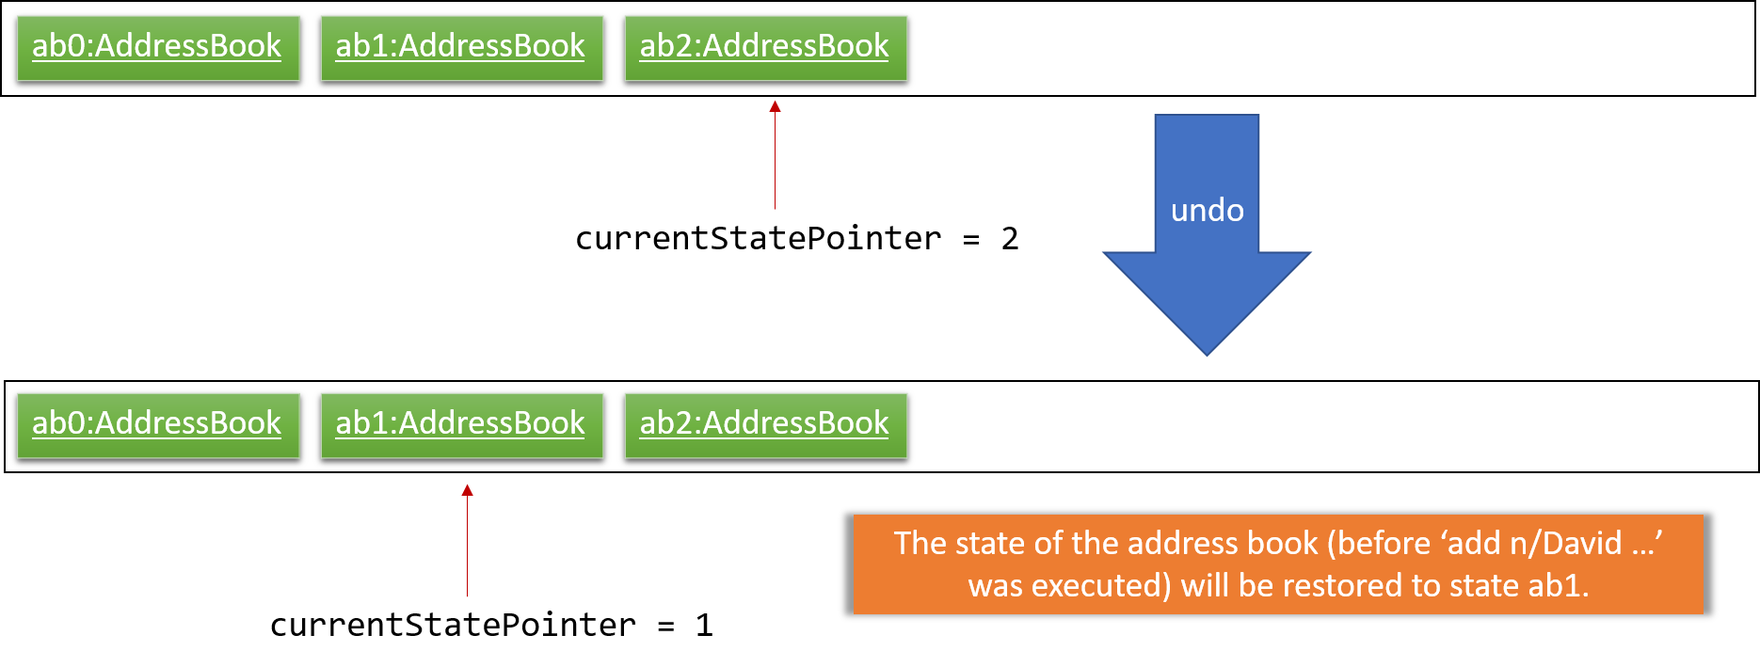
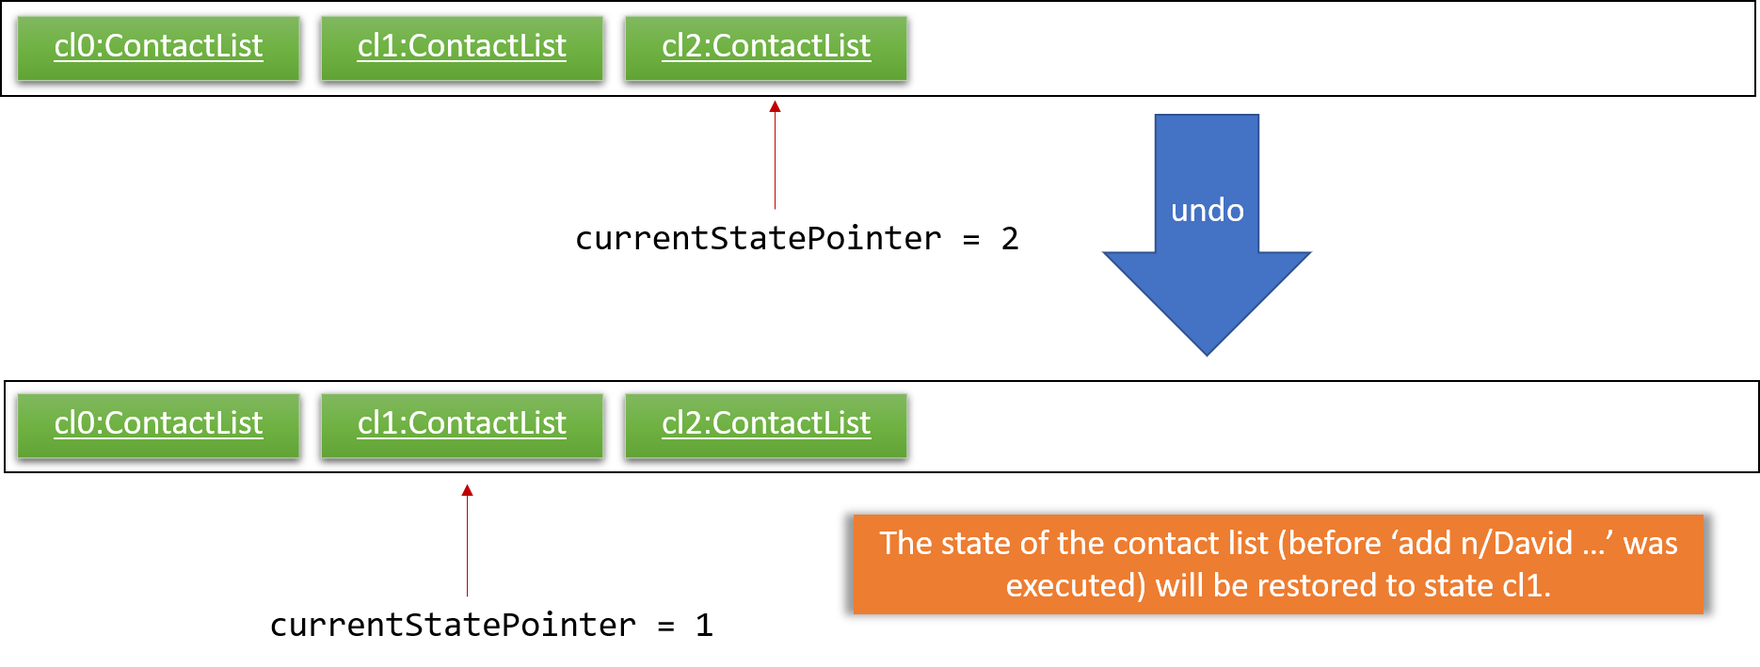
Rebuild pages at 3e79c8a3cec705b531b3e99bef4f56458a73218d

diff --git a/team/johndoe.html b/team/johndoe.html
@@ -241,31 +241,31 @@ The <code>redo</code> command fails as there are no <code>undo</code> commands e
 <div class="sect3">
 <h4 id="current-implementation"><a class="link" href="#current-implementation">Current Implementation</a></h4>
 <div class="paragraph">
-<p>The undo/redo mechanism is facilitated by <code>VersionedAddressBook</code>.
-It extends <code>AddressBook</code> with an undo/redo history, stored internally as an <code>addressBookStateList</code> and <code>currentStatePointer</code>.
+<p>The undo/redo mechanism is facilitated by <code>VersionedContactList</code>.
+It extends <code>ContactList</code> with an undo/redo history, stored internally as an <code>contactListStateList</code> and <code>currentStatePointer</code>.
 Additionally, it implements the following operations:</p>
 </div>
 <div class="ulist">
 <ul>
 <li>
-<p><code>VersionedAddressBook#commit()</code>&#8201;&#8212;&#8201;Saves the current address book state in its history.</p>
+<p><code>VersionedContactList#commit()</code>&#8201;&#8212;&#8201;Saves the current contact list state in its history.</p>
 </li>
 <li>
-<p><code>VersionedAddressBook#undo()</code>&#8201;&#8212;&#8201;Restores the previous address book state from its history.</p>
+<p><code>VersionedContactList#undo()</code>&#8201;&#8212;&#8201;Restores the previous contact list state from its history.</p>
 </li>
 <li>
-<p><code>VersionedAddressBook#redo()</code>&#8201;&#8212;&#8201;Restores a previously undone address book state from its history.</p>
+<p><code>VersionedContactList#redo()</code>&#8201;&#8212;&#8201;Restores a previously undone contact list state from its history.</p>
 </li>
 </ul>
 </div>
 <div class="paragraph">
-<p>These operations are exposed in the <code>Model</code> interface as <code>Model#commitAddressBook()</code>, <code>Model#undoAddressBook()</code> and <code>Model#redoAddressBook()</code> respectively.</p>
+<p>These operations are exposed in the <code>Model</code> interface as <code>Model#commitContactList()</code>, <code>Model#undoContactList()</code> and <code>Model#redoContactList()</code> respectively.</p>
 </div>
 <div class="paragraph">
 <p>Given below is an example usage scenario and how the undo/redo mechanism behaves at each step.</p>
 </div>
 <div class="paragraph">
-<p>Step 1. The user launches the application for the first time. The <code>VersionedAddressBook</code> will be initialized with the initial address book state, and the <code>currentStatePointer</code> pointing to that single address book state.</p>
+<p>Step 1. The user launches the application for the first time. The <code>VersionedContactList</code> will be initialized with the initial contact list state, and the <code>currentStatePointer</code> pointing to that single contact list state.</p>
 </div>
 <div class="imageblock">
 <div class="content">
@@ -273,7 +273,7 @@ Additionally, it implements the following operations:</p>
 </div>
 </div>
 <div class="paragraph">
-<p>Step 2. The user executes <code>delete 5</code> command to delete the 5th person in the address book. The <code>delete</code> command calls <code>Model#commitAddressBook()</code>, causing the modified state of the address book after the <code>delete 5</code> command executes to be saved in the <code>addressBookStateList</code>, and the <code>currentStatePointer</code> is shifted to the newly inserted address book state.</p>
+<p>Step 2. The user executes <code>delete 5</code> command to delete the 5th person in the contact list. The <code>delete</code> command calls <code>Model#commitContactList()</code>, causing the modified state of the contact list after the <code>delete 5</code> command executes to be saved in the <code>contactListStateList</code>, and the <code>currentStatePointer</code> is shifted to the newly inserted contact list state.</p>
 </div>
 <div class="imageblock">
 <div class="content">
@@ -281,7 +281,7 @@ Additionally, it implements the following operations:</p>
 </div>
 </div>
 <div class="paragraph">
-<p>Step 3. The user executes <code>add n/David &#8230;&#8203;</code> to add a new person. The <code>add</code> command also calls <code>Model#commitAddressBook()</code>, causing another modified address book state to be saved into the <code>addressBookStateList</code>.</p>
+<p>Step 3. The user executes <code>add n/David &#8230;&#8203;</code> to add a new person. The <code>add</code> command also calls <code>Model#commitContactList()</code>, causing another modified contact list state to be saved into the <code>contactListStateList</code>.</p>
 </div>
 <div class="imageblock">
 <div class="content">
@@ -295,13 +295,13 @@ Additionally, it implements the following operations:</p>
 <i class="fa icon-note" title="Note"></i>
 </td>
 <td class="content">
-If a command fails its execution, it will not call <code>Model#commitAddressBook()</code>, so the address book state will not be saved into the <code>addressBookStateList</code>.
+If a command fails its execution, it will not call <code>Model#commitContactList()</code>, so the contact list state will not be saved into the <code>contactListStateList</code>.
 </td>
 </tr>
 </table>
 </div>
 <div class="paragraph">
-<p>Step 4. The user now decides that adding the person was a mistake, and decides to undo that action by executing the <code>undo</code> command. The <code>undo</code> command will call <code>Model#undoAddressBook()</code>, which will shift the <code>currentStatePointer</code> once to the left, pointing it to the previous address book state, and restores the address book to that state.</p>
+<p>Step 4. The user now decides that adding the person was a mistake, and decides to undo that action by executing the <code>undo</code> command. The <code>undo</code> command will call <code>Model#undoContactList()</code>, which will shift the <code>currentStatePointer</code> once to the left, pointing it to the previous contact list state, and restores the contact list to that state.</p>
 </div>
 <div class="imageblock">
 <div class="content">
@@ -315,7 +315,7 @@ If a command fails its execution, it will not call <code>Model#commitAddressBook
 <i class="fa icon-note" title="Note"></i>
 </td>
 <td class="content">
-If the <code>currentStatePointer</code> is at index 0, pointing to the initial address book state, then there are no previous address book states to restore. The <code>undo</code> command uses <code>Model#canUndoAddressBook()</code> to check if this is the case. If so, it will return an error to the user rather than attempting to perform the undo.
+If the <code>currentStatePointer</code> is at index 0, pointing to the initial contact list state, then there are no previous contact list states to restore. The <code>undo</code> command uses <code>Model#canUndoContactList()</code> to check if this is the case. If so, it will return an error to the user rather than attempting to perform the undo.
 </td>
 </tr>
 </table>
@@ -329,7 +329,7 @@ If the <code>currentStatePointer</code> is at index 0, pointing to the initial a
 </div>
 </div>
 <div class="paragraph">
-<p>The <code>redo</code> command does the opposite&#8201;&#8212;&#8201;it calls <code>Model#redoAddressBook()</code>, which shifts the <code>currentStatePointer</code> once to the right, pointing to the previously undone state, and restores the address book to that state.</p>
+<p>The <code>redo</code> command does the opposite&#8201;&#8212;&#8201;it calls <code>Model#redoContactList()</code>, which shifts the <code>currentStatePointer</code> once to the right, pointing to the previously undone state, and restores the contact list to that state.</p>
 </div>
 <div class="admonitionblock note">
 <table>
@@ -338,13 +338,13 @@ If the <code>currentStatePointer</code> is at index 0, pointing to the initial a
 <i class="fa icon-note" title="Note"></i>
 </td>
 <td class="content">
-If the <code>currentStatePointer</code> is at index <code>addressBookStateList.size() - 1</code>, pointing to the latest address book state, then there are no undone address book states to restore. The <code>redo</code> command uses <code>Model#canRedoAddressBook()</code> to check if this is the case. If so, it will return an error to the user rather than attempting to perform the redo.
+If the <code>currentStatePointer</code> is at index <code>contactListStateList.size() - 1</code>, pointing to the latest contact list state, then there are no undone contact list states to restore. The <code>redo</code> command uses <code>Model#canRedoContactList()</code> to check if this is the case. If so, it will return an error to the user rather than attempting to perform the redo.
 </td>
 </tr>
 </table>
 </div>
 <div class="paragraph">
-<p>Step 5. The user then decides to execute the command <code>list</code>. Commands that do not modify the address book, such as <code>list</code>, will usually not call <code>Model#commitAddressBook()</code>, <code>Model#undoAddressBook()</code> or <code>Model#redoAddressBook()</code>. Thus, the <code>addressBookStateList</code> remains unchanged.</p>
+<p>Step 5. The user then decides to execute the command <code>list</code>. Commands that do not modify the contact list, such as <code>list</code>, will usually not call <code>Model#commitContactList()</code>, <code>Model#undoContactList()</code> or <code>Model#redoContactList()</code>. Thus, the <code>contactListStateList</code> remains unchanged.</p>
 </div>
 <div class="imageblock">
 <div class="content">
@@ -352,7 +352,7 @@ If the <code>currentStatePointer</code> is at index <code>addressBookStateList.s
 </div>
 </div>
 <div class="paragraph">
-<p>Step 6. The user executes <code>clear</code>, which calls <code>Model#commitAddressBook()</code>. Since the <code>currentStatePointer</code> is not pointing at the end of the <code>addressBookStateList</code>, all address book states after the <code>currentStatePointer</code> will be purged. We designed it this way because it no longer makes sense to redo the <code>add n/David &#8230;&#8203;</code> command. This is the behavior that most modern desktop applications follow.</p>
+<p>Step 6. The user executes <code>clear</code>, which calls <code>Model#commitContactList()</code>. Since the <code>currentStatePointer</code> is not pointing at the end of the <code>contactListStateList</code>, all contact list states after the <code>currentStatePointer</code> will be purged. We designed it this way because it no longer makes sense to redo the <code>add n/David &#8230;&#8203;</code> command. This is the behavior that most modern desktop applications follow.</p>
 </div>
 <div class="imageblock">
 <div class="content">
@@ -375,7 +375,7 @@ If the <code>currentStatePointer</code> is at index <code>addressBookStateList.s
 <div class="ulist">
 <ul>
 <li>
-<p><strong>Alternative 1 (current choice):</strong> Saves the entire address book.</p>
+<p><strong>Alternative 1 (current choice):</strong> Saves the entire contact list.</p>
 <div class="ulist">
 <ul>
 <li>
@@ -408,14 +408,14 @@ If the <code>currentStatePointer</code> is at index <code>addressBookStateList.s
 <div class="ulist">
 <ul>
 <li>
-<p><strong>Alternative 1 (current choice):</strong> Use a list to store the history of address book states.</p>
+<p><strong>Alternative 1 (current choice):</strong> Use a list to store the history of contact list states.</p>
 <div class="ulist">
 <ul>
 <li>
 <p>Pros: Easy for new Computer Science student undergraduates to understand, who are likely to be the new incoming developers of our project.</p>
 </li>
 <li>
-<p>Cons: Logic is duplicated twice. For example, when a new command is executed, we must remember to update both <code>HistoryManager</code> and <code>VersionedAddressBook</code>.</p>
+<p>Cons: Logic is duplicated twice. For example, when a new command is executed, we must remember to update both <code>HistoryManager</code> and <code>VersionedContactList</code>.</p>
 </li>
 </ul>
 </div>
@@ -448,4 +448,4 @@ If the <code>currentStatePointer</code> is at index <code>addressBookStateList.s
 <p><em>{Optionally, you may include other projects in your portfolio.}</em></p>
 </div>
 </div>
-</div></div><div id="footer"><div class="container"><div id="footer-text">Last updated 2019-04-11 10:54:36 UTC</div></div></div></body></html>
+</div></div><div id="footer"><div class="container"><div id="footer-text">Last updated 2019-04-11 22:54:11 UTC</div></div></div></body></html>

diff --git a/DeveloperGuide.html b/DeveloperGuide.html
@@ -630,31 +630,31 @@ As a more OOP model, we can store a <code>Tag</code> list in <code>Expenditure L
 <div class="sect3">
 <h4 id="current-implementation"><a class="link" href="#current-implementation">5.1.1. Current Implementation</a></h4>
 <div class="paragraph">
-<p>The undo/redo mechanism is facilitated by <code>VersionedAddressBook</code>.
-It extends <code>AddressBook</code> with an undo/redo history, stored internally as an <code>addressBookStateList</code> and <code>currentStatePointer</code>.
+<p>The undo/redo mechanism is facilitated by <code>VersionedContactList</code>.
+It extends <code>ContactList</code> with an undo/redo history, stored internally as an <code>contactListStateList</code> and <code>currentStatePointer</code>.
 Additionally, it implements the following operations:</p>
 </div>
 <div class="ulist">
 <ul>
 <li>
-<p><code>VersionedAddressBook#commit()</code>&#8201;&#8212;&#8201;Saves the current address book state in its history.</p>
+<p><code>VersionedContactList#commit()</code>&#8201;&#8212;&#8201;Saves the current contact list state in its history.</p>
 </li>
 <li>
-<p><code>VersionedAddressBook#undo()</code>&#8201;&#8212;&#8201;Restores the previous address book state from its history.</p>
+<p><code>VersionedContactList#undo()</code>&#8201;&#8212;&#8201;Restores the previous contact list state from its history.</p>
 </li>
 <li>
-<p><code>VersionedAddressBook#redo()</code>&#8201;&#8212;&#8201;Restores a previously undone address book state from its history.</p>
+<p><code>VersionedContactList#redo()</code>&#8201;&#8212;&#8201;Restores a previously undone contact list state from its history.</p>
 </li>
 </ul>
 </div>
 <div class="paragraph">
-<p>These operations are exposed in the <code>Model</code> interface as <code>Model#commitAddressBook()</code>, <code>Model#undoAddressBook()</code> and <code>Model#redoAddressBook()</code> respectively.</p>
+<p>These operations are exposed in the <code>Model</code> interface as <code>Model#commitContactList()</code>, <code>Model#undoContactList()</code> and <code>Model#redoContactList()</code> respectively.</p>
 </div>
 <div class="paragraph">
 <p>Given below is an example usage scenario and how the undo/redo mechanism behaves at each step.</p>
 </div>
 <div class="paragraph">
-<p>Step 1. The user launches the application for the first time. The <code>VersionedAddressBook</code> will be initialized with the initial address book state, and the <code>currentStatePointer</code> pointing to that single address book state.</p>
+<p>Step 1. The user launches the application for the first time. The <code>VersionedContactList</code> will be initialized with the initial contact list state, and the <code>currentStatePointer</code> pointing to that single contact list state.</p>
 </div>
 <div class="imageblock">
 <div class="content">
@@ -662,7 +662,7 @@ Additionally, it implements the following operations:</p>
 </div>
 </div>
 <div class="paragraph">
-<p>Step 2. The user executes <code>delete 5</code> command to delete the 5th person in the address book. The <code>delete</code> command calls <code>Model#commitAddressBook()</code>, causing the modified state of the address book after the <code>delete 5</code> command executes to be saved in the <code>addressBookStateList</code>, and the <code>currentStatePointer</code> is shifted to the newly inserted address book state.</p>
+<p>Step 2. The user executes <code>delete 5</code> command to delete the 5th person in the contact list. The <code>delete</code> command calls <code>Model#commitContactList()</code>, causing the modified state of the contact list after the <code>delete 5</code> command executes to be saved in the <code>contactListStateList</code>, and the <code>currentStatePointer</code> is shifted to the newly inserted contact list state.</p>
 </div>
 <div class="imageblock">
 <div class="content">
@@ -670,7 +670,7 @@ Additionally, it implements the following operations:</p>
 </div>
 </div>
 <div class="paragraph">
-<p>Step 3. The user executes <code>add n/David &#8230;&#8203;</code> to add a new person. The <code>add</code> command also calls <code>Model#commitAddressBook()</code>, causing another modified address book state to be saved into the <code>addressBookStateList</code>.</p>
+<p>Step 3. The user executes <code>add n/David &#8230;&#8203;</code> to add a new person. The <code>add</code> command also calls <code>Model#commitContactList()</code>, causing another modified contact list state to be saved into the <code>contactListStateList</code>.</p>
 </div>
 <div class="imageblock">
 <div class="content">
@@ -684,13 +684,13 @@ Additionally, it implements the following operations:</p>
 <i class="fa icon-note" title="Note"></i>
 </td>
 <td class="content">
-If a command fails its execution, it will not call <code>Model#commitAddressBook()</code>, so the address book state will not be saved into the <code>addressBookStateList</code>.
+If a command fails its execution, it will not call <code>Model#commitContactList()</code>, so the contact list state will not be saved into the <code>contactListStateList</code>.
 </td>
 </tr>
 </table>
 </div>
 <div class="paragraph">
-<p>Step 4. The user now decides that adding the person was a mistake, and decides to undo that action by executing the <code>undo</code> command. The <code>undo</code> command will call <code>Model#undoAddressBook()</code>, which will shift the <code>currentStatePointer</code> once to the left, pointing it to the previous address book state, and restores the address book to that state.</p>
+<p>Step 4. The user now decides that adding the person was a mistake, and decides to undo that action by executing the <code>undo</code> command. The <code>undo</code> command will call <code>Model#undoContactList()</code>, which will shift the <code>currentStatePointer</code> once to the left, pointing it to the previous contact list state, and restores the contact list to that state.</p>
 </div>
 <div class="imageblock">
 <div class="content">
@@ -704,7 +704,7 @@ If a command fails its execution, it will not call <code>Model#commitAddressBook
 <i class="fa icon-note" title="Note"></i>
 </td>
 <td class="content">
-If the <code>currentStatePointer</code> is at index 0, pointing to the initial address book state, then there are no previous address book states to restore. The <code>undo</code> command uses <code>Model#canUndoAddressBook()</code> to check if this is the case. If so, it will return an error to the user rather than attempting to perform the undo.
+If the <code>currentStatePointer</code> is at index 0, pointing to the initial contact list state, then there are no previous contact list states to restore. The <code>undo</code> command uses <code>Model#canUndoContactList()</code> to check if this is the case. If so, it will return an error to the user rather than attempting to perform the undo.
 </td>
 </tr>
 </table>
@@ -718,7 +718,7 @@ If the <code>currentStatePointer</code> is at index 0, pointing to the initial a
 </div>
 </div>
 <div class="paragraph">
-<p>The <code>redo</code> command does the opposite&#8201;&#8212;&#8201;it calls <code>Model#redoAddressBook()</code>, which shifts the <code>currentStatePointer</code> once to the right, pointing to the previously undone state, and restores the address book to that state.</p>
+<p>The <code>redo</code> command does the opposite&#8201;&#8212;&#8201;it calls <code>Model#redoContactList()</code>, which shifts the <code>currentStatePointer</code> once to the right, pointing to the previously undone state, and restores the contact list to that state.</p>
 </div>
 <div class="admonitionblock note">
 <table>
@@ -727,13 +727,13 @@ If the <code>currentStatePointer</code> is at index 0, pointing to the initial a
 <i class="fa icon-note" title="Note"></i>
 </td>
 <td class="content">
-If the <code>currentStatePointer</code> is at index <code>addressBookStateList.size() - 1</code>, pointing to the latest address book state, then there are no undone address book states to restore. The <code>redo</code> command uses <code>Model#canRedoAddressBook()</code> to check if this is the case. If so, it will return an error to the user rather than attempting to perform the redo.
+If the <code>currentStatePointer</code> is at index <code>contactListStateList.size() - 1</code>, pointing to the latest contact list state, then there are no undone contact list states to restore. The <code>redo</code> command uses <code>Model#canRedoContactList()</code> to check if this is the case. If so, it will return an error to the user rather than attempting to perform the redo.
 </td>
 </tr>
 </table>
 </div>
 <div class="paragraph">
-<p>Step 5. The user then decides to execute the command <code>list</code>. Commands that do not modify the address book, such as <code>list</code>, will usually not call <code>Model#commitAddressBook()</code>, <code>Model#undoAddressBook()</code> or <code>Model#redoAddressBook()</code>. Thus, the <code>addressBookStateList</code> remains unchanged.</p>
+<p>Step 5. The user then decides to execute the command <code>list</code>. Commands that do not modify the contact list, such as <code>list</code>, will usually not call <code>Model#commitContactList()</code>, <code>Model#undoContactList()</code> or <code>Model#redoContactList()</code>. Thus, the <code>contactListStateList</code> remains unchanged.</p>
 </div>
 <div class="imageblock">
 <div class="content">
@@ -741,7 +741,7 @@ If the <code>currentStatePointer</code> is at index <code>addressBookStateList.s
 </div>
 </div>
 <div class="paragraph">
-<p>Step 6. The user executes <code>clear</code>, which calls <code>Model#commitAddressBook()</code>. Since the <code>currentStatePointer</code> is not pointing at the end of the <code>addressBookStateList</code>, all address book states after the <code>currentStatePointer</code> will be purged. We designed it this way because it no longer makes sense to redo the <code>add n/David &#8230;&#8203;</code> command. This is the behavior that most modern desktop applications follow.</p>
+<p>Step 6. The user executes <code>clear</code>, which calls <code>Model#commitContactList()</code>. Since the <code>currentStatePointer</code> is not pointing at the end of the <code>contactListStateList</code>, all contact list states after the <code>currentStatePointer</code> will be purged. We designed it this way because it no longer makes sense to redo the <code>add n/David &#8230;&#8203;</code> command. This is the behavior that most modern desktop applications follow.</p>
 </div>
 <div class="imageblock">
 <div class="content">
@@ -764,7 +764,7 @@ If the <code>currentStatePointer</code> is at index <code>addressBookStateList.s
 <div class="ulist">
 <ul>
 <li>
-<p><strong>Alternative 1 (current choice):</strong> Saves the entire address book.</p>
+<p><strong>Alternative 1 (current choice):</strong> Saves the entire contact list.</p>
 <div class="ulist">
 <ul>
 <li>
@@ -797,14 +797,14 @@ If the <code>currentStatePointer</code> is at index <code>addressBookStateList.s
 <div class="ulist">
 <ul>
 <li>
-<p><strong>Alternative 1 (current choice):</strong> Use a list to store the history of address book states.</p>
+<p><strong>Alternative 1 (current choice):</strong> Use a list to store the history of contact list states.</p>
 <div class="ulist">
 <ul>
 <li>
 <p>Pros: Easy for new Computer Science student undergraduates to understand, who are likely to be the new incoming developers of our project.</p>
 </li>
 <li>
-<p>Cons: Logic is duplicated twice. For example, when a new command is executed, we must remember to update both <code>HistoryManager</code> and <code>VersionedAddressBook</code>.</p>
+<p>Cons: Logic is duplicated twice. For example, when a new command is executed, we must remember to update both <code>HistoryManager</code> and <code>VersionedContactList</code>.</p>
 </li>
 </ul>
 </div>
@@ -3315,4 +3315,4 @@ Expected: Similar to previous.</p>
 </div>
 </div>
 </div>
-</div></div><div id="footer"><div class="container"><div id="footer-text">Last updated 2019-04-11 10:54:36 UTC</div></div></div></body></html>
+</div></div><div id="footer"><div class="container"><div id="footer-text">Last updated 2019-04-11 22:54:11 UTC</div></div></div></body></html>

diff --git a/UsingGradle.html b/UsingGradle.html
@@ -99,7 +99,7 @@ When running a Gradle task, Gradle will try to figure out if the task needs runn
 <ul>
 <li>
 <p><strong><code>shadowJar</code></strong><br>
-Creates the <code>addressbook.jar</code> file in the <code>build/jar</code> folder, <em>if the current file is outdated</em>.<br>
+Creates the <code>LIFE.jar</code> file in the <code>build/jar</code> folder, <em>if the current file is outdated</em>.<br>
 e.g. <code>./gradlew shadowJar</code></p>
 </li>
 </ul>
@@ -242,4 +242,4 @@ See <code>build.gradle</code> &#8594; <code>allprojects</code> &#8594; <code>dep
 </ul>
 </div>
 </div>
-</div></div><div id="footer"><div class="container"><div id="footer-text">Last updated 2019-04-11 10:54:36 UTC</div></div></div></body></html>
+</div></div><div id="footer"><div class="container"><div id="footer-text">Last updated 2019-04-11 22:54:11 UTC</div></div></div></body></html>

diff --git a/ContactUs.html b/ContactUs.html
@@ -12,4 +12,4 @@
 <p><strong>Email us</strong> : You can also reach us at <code>e0200817 [at] comp.nus.edu.sg</code></p>
 </li>
 </ul>
-</div></div><div id="footer"><div class="container"><div id="footer-text">Last updated 2019-04-11 10:54:36 UTC</div></div></div></body></html>
+</div></div><div id="footer"><div class="container"><div id="footer-text">Last updated 2019-04-11 22:54:11 UTC</div></div></div></body></html>

diff --git a/index.html b/index.html
@@ -93,4 +93,4 @@ It is a one stop application for NUS students to manage their student life in te
 <div class="sectionbody">
 
 </div>
-</div></div><div id="footer"><div class="container"><div id="footer-text">Last updated 2019-04-11 10:54:36 UTC</div></div></div></body></html>
+</div></div><div id="footer"><div class="container"><div id="footer-text">Last updated 2019-04-11 22:54:11 UTC</div></div></div></body></html>

diff --git a/LearningOutcomes.html b/LearningOutcomes.html
@@ -549,4 +549,4 @@ When the value represented by the <code>ObservableValue</code> changes, it will 
 </div>
 </div>
 </div>
-</div></div><div id="footer"><div class="container"><div id="footer-text">Last updated 2019-04-11 10:54:36 UTC</div></div></div></body></html>
+</div></div><div id="footer"><div class="container"><div id="footer-text">Last updated 2019-04-11 22:54:11 UTC</div></div></div></body></html>

diff --git a/UsingNetlify.html b/UsingNetlify.html
@@ -123,4 +123,4 @@ The publish directory is the directory in which the built HTML documentation res
 </ol>
 </div>
 </div>
-</div></div><div id="footer"><div class="container"><div id="footer-text">Last updated 2019-04-11 10:54:36 UTC</div></div></div></body></html>
+</div></div><div id="footer"><div class="container"><div id="footer-text">Last updated 2019-04-11 22:54:11 UTC</div></div></div></body></html>

diff --git a/UsingCoveralls.html b/UsingCoveralls.html
@@ -96,4 +96,4 @@ If you have not set up Travis CI, see <a href="UsingTravis.html">UsingTravis.ado
 </ol>
 </div>
 </div>
-</div></div><div id="footer"><div class="container"><div id="footer-text">Last updated 2019-04-11 10:54:36 UTC</div></div></div></body></html>
+</div></div><div id="footer"><div class="container"><div id="footer-text">Last updated 2019-04-11 22:54:11 UTC</div></div></div></body></html>

diff --git a/UsingTravis.html b/UsingTravis.html
@@ -277,4 +277,4 @@ Suggested change: Remove the codacy badge from <code>README</code>.</p>
 </div>
 </div>
 </div>
-</div></div><div id="footer"><div class="container"><div id="footer-text">Last updated 2019-04-11 10:54:36 UTC</div></div></div></body></html>
+</div></div><div id="footer"><div class="container"><div id="footer-text">Last updated 2019-04-11 22:54:11 UTC</div></div></div></body></html>

diff --git a/HelpWindow.html b/HelpWindow.html
@@ -1013,4 +1013,4 @@ e.g. <code>addpurchase pn/Bicycle rental pr/10.00 t/family</code></p>
 </ul>
 </div>
 </div>
-</div></div><div id="footer"><div class="container"><div id="footer-text">Last updated 2019-04-11 10:54:36 UTC</div></div></div></body></html>
+</div></div><div id="footer"><div class="container"><div id="footer-text">Last updated 2019-04-11 22:54:11 UTC</div></div></div></body></html>

diff --git a/UserGuide.html b/UserGuide.html
@@ -1013,4 +1013,4 @@ e.g. <code>addpurchase pn/Bicycle rental pr/10.00 t/family</code></p>
 </ul>
 </div>
 </div>
-</div></div><div id="footer"><div class="container"><div id="footer-text">Last updated 2019-04-11 10:54:36 UTC</div></div></div></body></html>
+</div></div><div id="footer"><div class="container"><div id="footer-text">Last updated 2019-04-11 22:54:11 UTC</div></div></div></body></html>

diff --git a/AboutUs.html b/AboutUs.html
@@ -76,4 +76,4 @@ Responsibilities: User Guide, implementing Habit Tracker feature</p>
 <hr>
 </div>
 </div>
-</div></div><div id="footer"><div class="container"><div id="footer-text">Last updated 2019-04-11 10:54:36 UTC</div></div></div></body></html>
+</div></div><div id="footer"><div class="container"><div id="footer-text">Last updated 2019-04-11 22:54:11 UTC</div></div></div></body></html>
